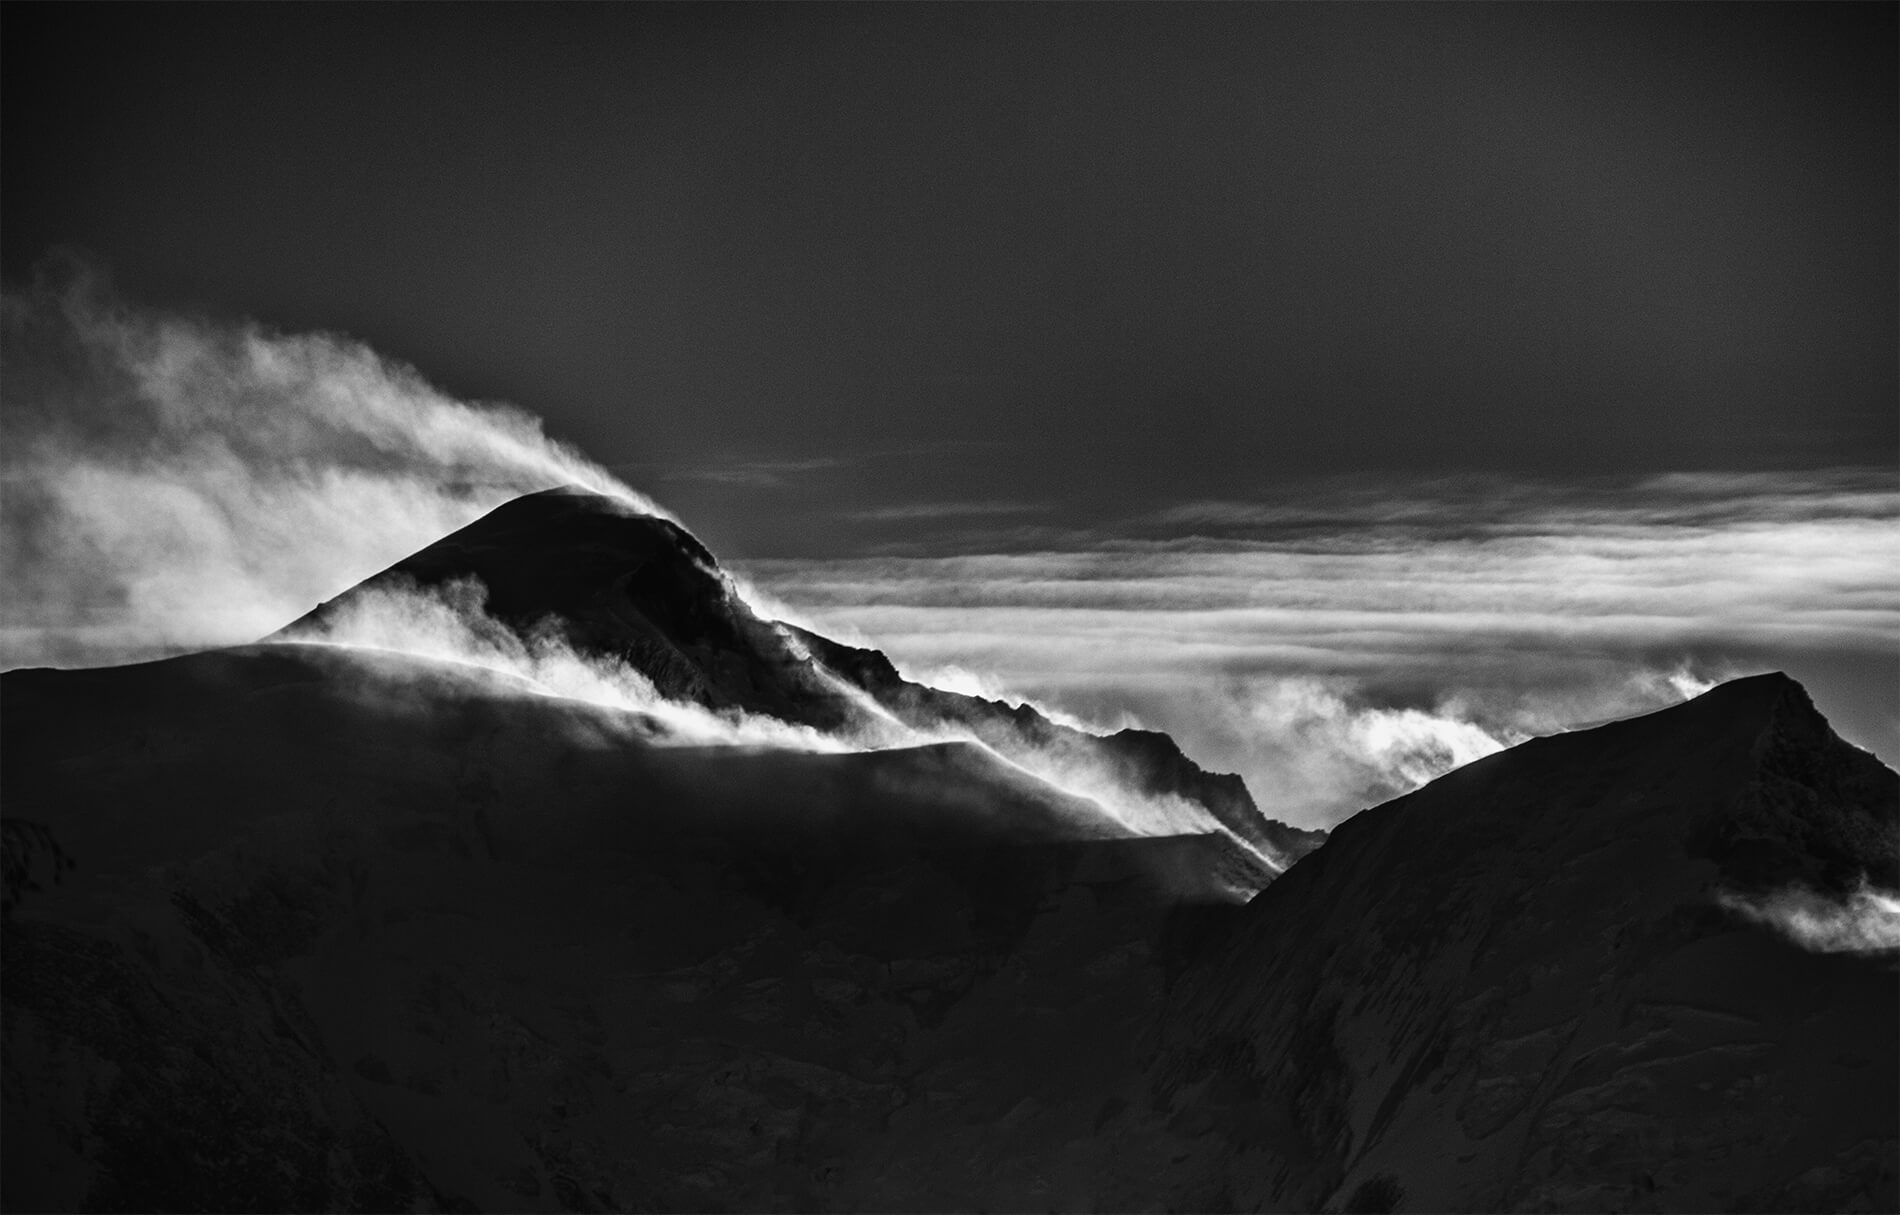
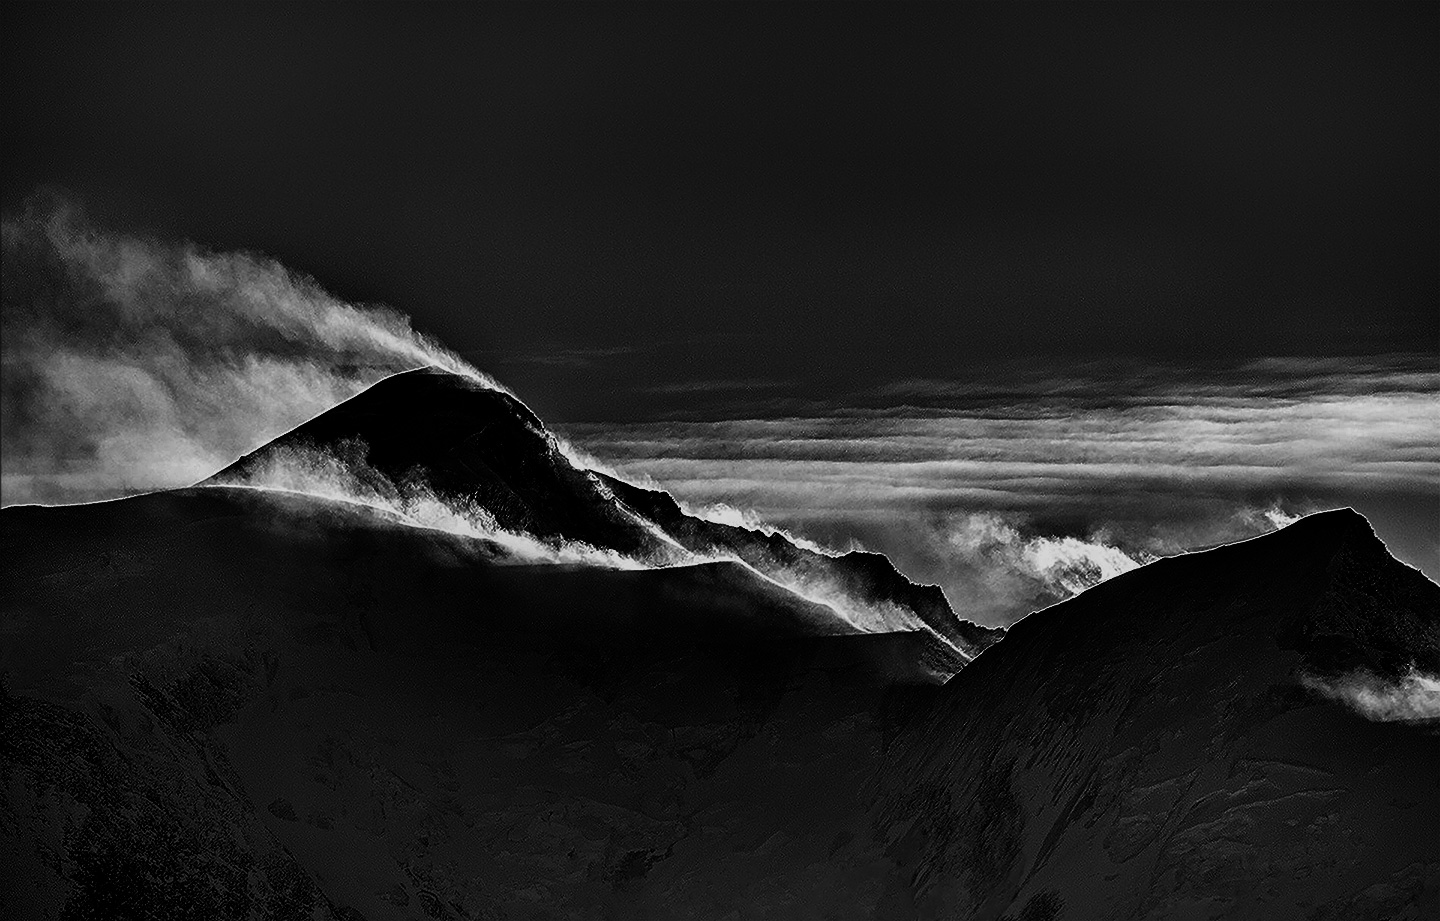
Synchronize background with music status

diff --git a/src/App.vue b/src/App.vue
@@ -1,6 +1,6 @@
 <template>
   <div id="app" :class="status" @click="play">
-    <Screen :listeners="listeners" :night="nightMode" />
+    <Screen :listeners="listeners" :night="nightMode" :muted="muted" />
     <Player
       v-if="streamUrl"
       :url="streamUrl"
@@ -9,6 +9,7 @@
       :autoplay="playerAutoplay"
       :message="playerMessage"
       @statusChange="toggleStatusClass"
+      @muteChange="setMuteValue"
       @toggle="toggleStatusClass"
     />
     <Posts
@@ -60,6 +61,7 @@ export default {
       status: ['loading'],
       listeners: null,
       playerMessage: '',
+      muted: false,
       nightModeMsg: 'Mode nuit',
       fullscreenMsg: 'Plein écran',
       streamUrl: null,
@@ -108,6 +110,9 @@ export default {
         this.toggleStatusClass(false, 'no-autoplay')
       }
     },
+    setMuteValue(value) {
+      this.muted = value
+    },
     updateNightMode() {
       const hours = new Date().getHours()
       const isDayTime = hours > 6 && hours < 19
@@ -116,15 +121,10 @@ export default {
     getListeners() {
       this.$jsonp(process.env.STREAM_API_OLD_URL, {
         callbackName: 'parseMusic'
-      }).then(
-        (json) => {
-          let data = json[process.env.STREAM_MOUNT_POINT]
-          this.listeners = parseInt(data.listeners)
-        },
-        (error) => {
-          if (process.env.NODE_ENV !== 'production') console.log(error)
-        }
-      )
+      }).then((json) => {
+        let data = json[process.env.STREAM_MOUNT_POINT]
+        this.listeners = parseInt(data.listeners)
+      })
     },
     toggleStatusClass(status, classname) {
       let exists = this.status.indexOf(classname) !== -1

diff --git a/src/components/Screen.vue b/src/components/Screen.vue
@@ -1,13 +1,19 @@
 <template>
   <div id="screen">
     <div
-      v-show="!night"
-      :style="{ backgroundImage: 'url(' + background + ')' }"
+      v-if="!night"
+      :style="{
+        backgroundImage: `url(${muted ? background : animatedBackground})`
+      }"
       class="background"
     ></div>
     <div
-      v-show="night"
-      :style="{ backgroundImage: 'url(' + backgroundNight + ')' }"
+      v-else
+      :style="{
+        backgroundImage: `url(${
+          muted ? backgroundNight : animatedBackgroundNight
+        })`
+      }"
       class="background"
     ></div>
     <Audience :count="listeners" />
@@ -29,15 +35,18 @@ export default {
   components: { Logo, Audience },
   props: {
     listeners: { type: Number, default: 0 },
-    night: { type: Boolean, default: false }
+    night: { type: Boolean, default: false },
+    muted: { type: Boolean, default: true }
   },
   data() {
     return {
       logo: require('@/assets/images/logo-stroke.svg'),
       mask: require('@/assets/images/mask.png'),
       maskNight: require('@/assets/images/mask-night.png'),
-      background: require('@/assets/images/animated-background.gif'),
-      backgroundNight: require('@/assets/images/animated-background-night.gif'),
+      background: require('@/assets/images/background.jpg'),
+      backgroundNight: require('@/assets/images/background-night.jpg'),
+      animatedBackground: require('@/assets/images/animated-background.gif'),
+      animatedBackgroundNight: require('@/assets/images/animated-background-night.gif'),
       credits: '© Photo:Bobin - Montage:120'
     }
   }

diff --git a/src/components/Player.vue b/src/components/Player.vue
@@ -122,6 +122,11 @@ export default {
       )
     }
   },
+  watch: {
+    muted(value) {
+      this.$emit('muteChange', value)
+    }
+  },
   created() {
     const params = new URL(document.location).searchParams
     const mixtape = params.get('mixtape')
